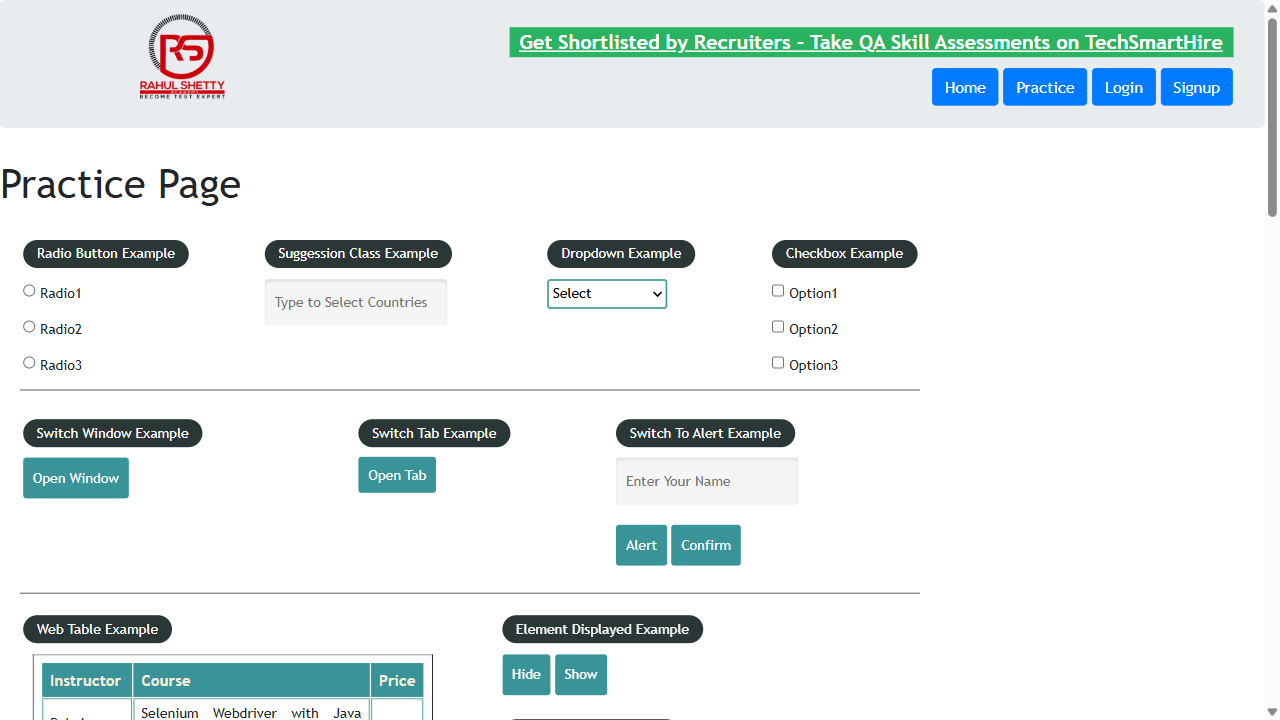
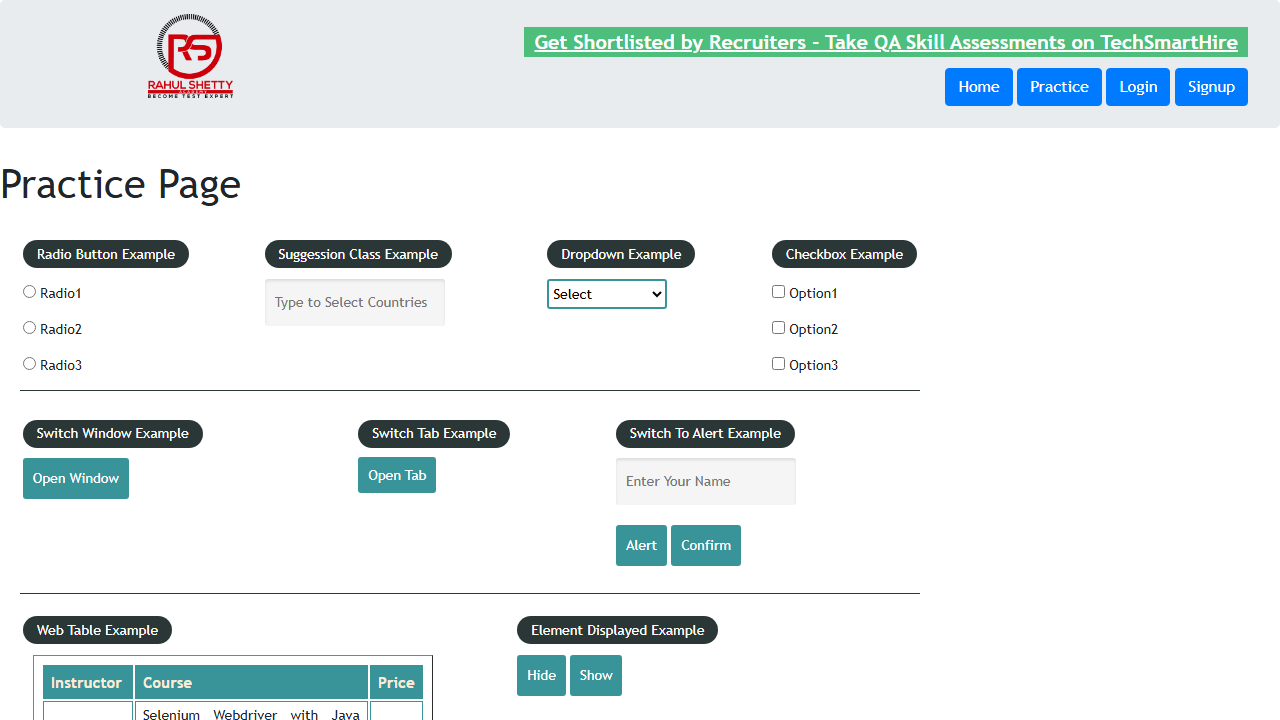
fixed token error

diff --git a/tests/utils/APiUtils.js b/tests/utils/APiUtils.js
@@ -30,7 +30,7 @@ class APiUtils
             }
             
             const loginResponseJson = await loginResponse.json();
-            token = loginResponseJson.token;
+            const token = loginResponseJson.token;
             return token;
         } catch (error) {
             throw new Error(`Failed to get auth token: ${error.message}`);
